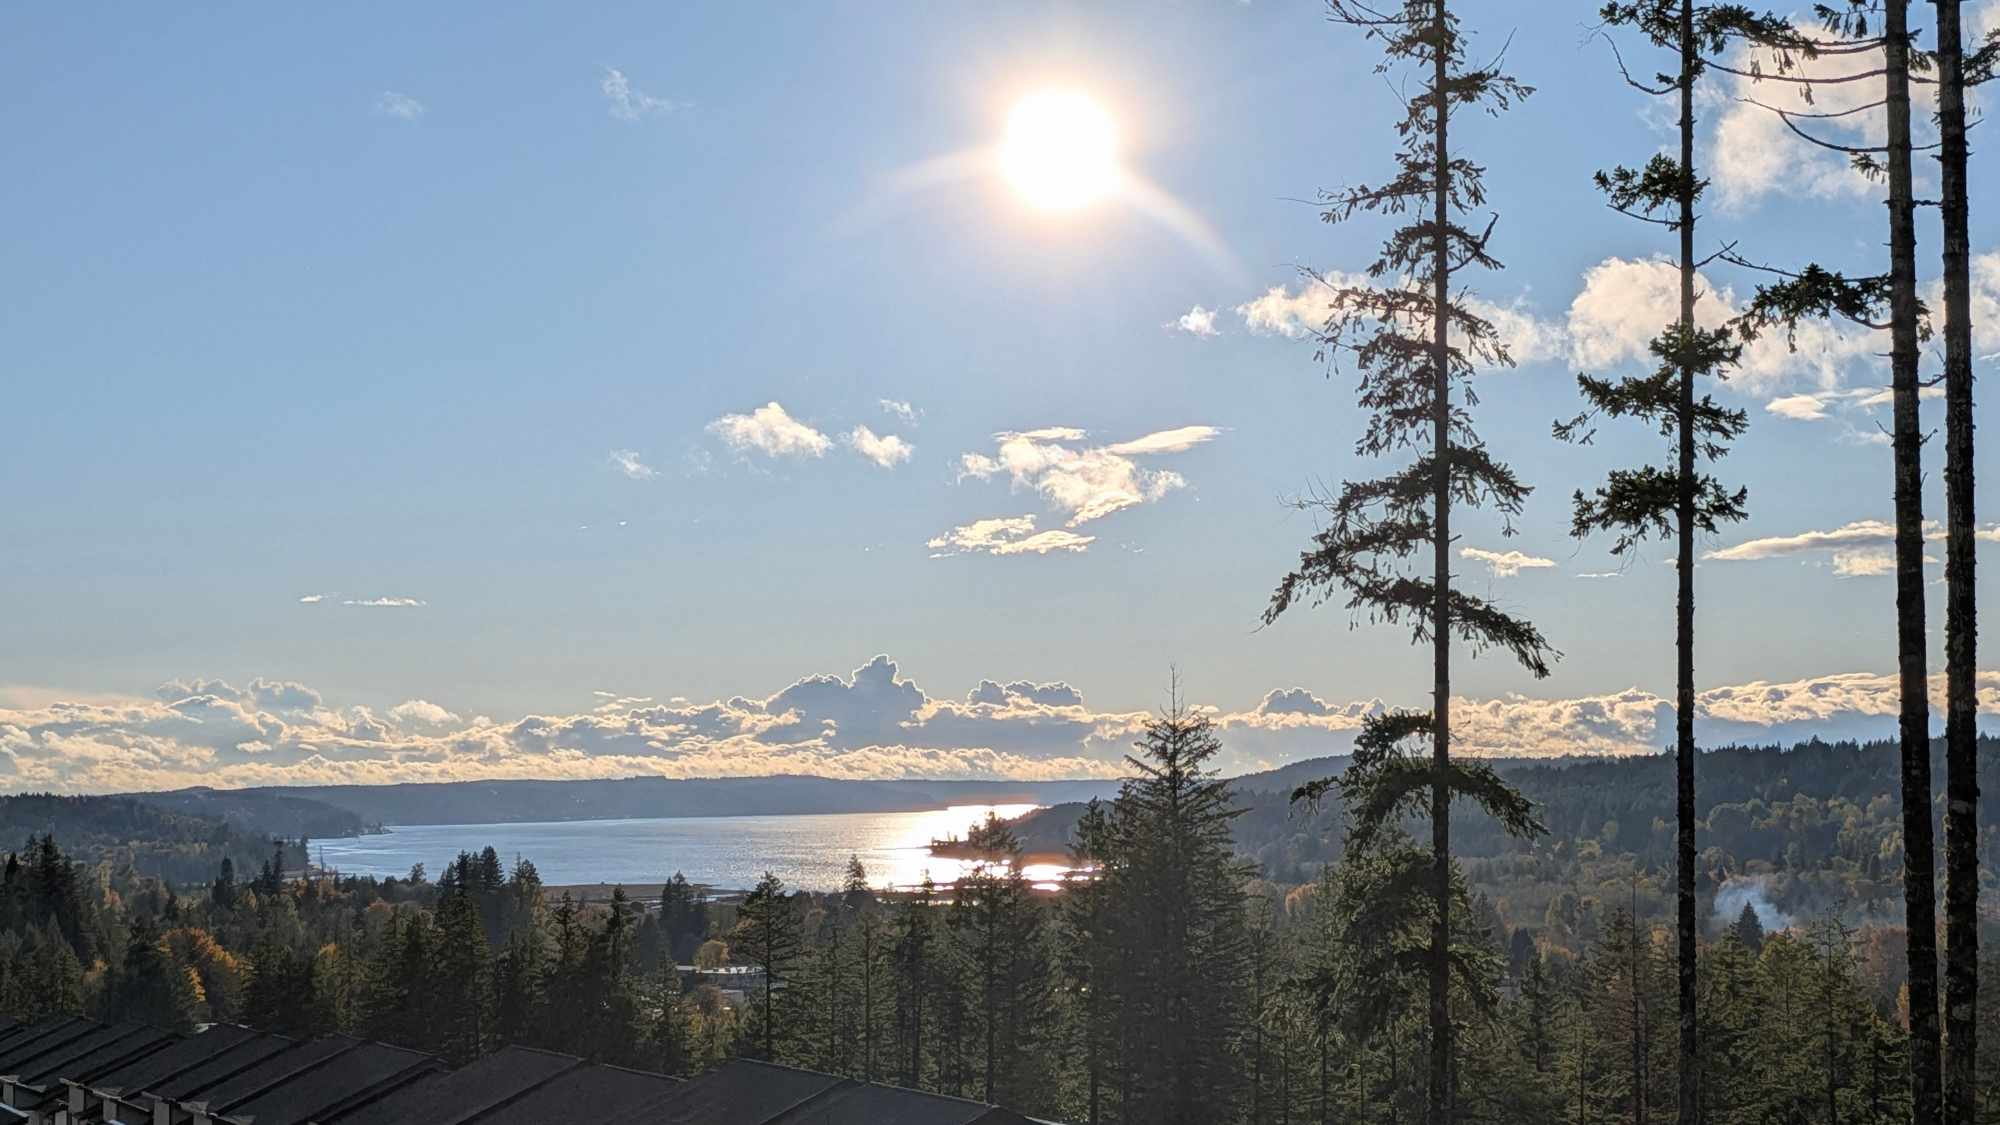
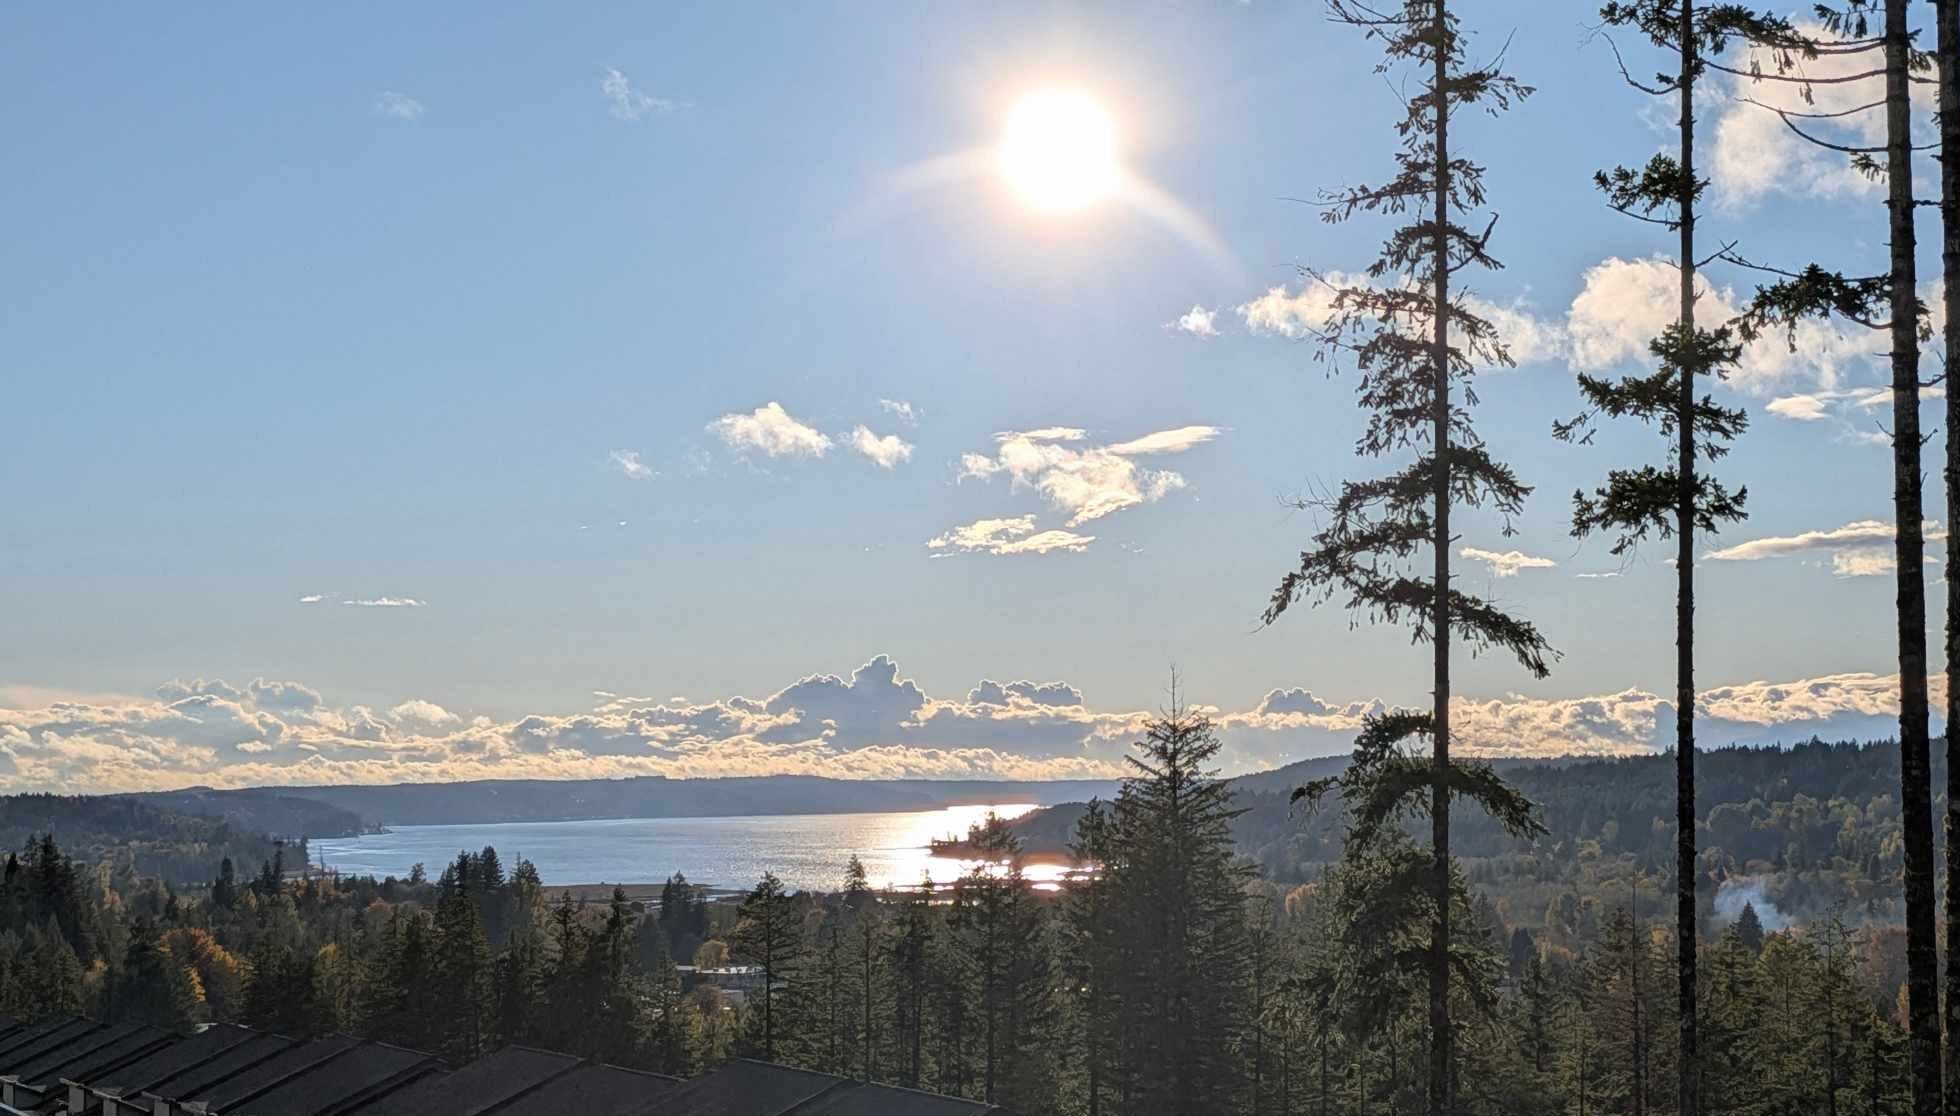
Stop the homepage hero jumping when the theme is toggled
Two independent causes.

The CSS: .dark was not just swapping the photo, it also overrode rotate
(0.65deg -> 0), scale (1.035 -> 1.01) and background-position-y (62% -> 72%).
The rotation change tilted the horizon, which read as the worst of it. A
second dark-only override inside the max-width:900px block did the same on
mobile. Both rules now only swap background-image; geometry is shared.

The photos: the two files had been cropped from their source shots at
different zoom, so the required correction grew with height in frame -
roofs ~6px, horizon ~18px, treetops ~46px. No single offset can fix that,
which is why aligning on the tree trunks was misleading; trunks are vertical
lines and hide vertical error. hood-canal-sunset.jpg is now rescaled
vertically ~1.08 and re-cropped to register against hood-canal-sunny.jpg.
Both files are 1960x1116.

Measured in-browser after the change, treetops and horizon register within
1px. The bottom-left roofs stay ~6px out; pulling them to zero costs the
trees and horizon about 10px, and they sit in the darkest corner under the
overlay, so the trade favours the features the eye tracks.

diff --git a/assets/css/extended/custom.css b/assets/css/extended/custom.css
@@ -172,20 +172,32 @@ button#theme-toggle:hover,
     inset: 0;
 }
 
+/*
+ * Hero geometry is shared by both themes on purpose, and the two photos are
+ * pixel-registered to each other: same viewpoint, and hood-canal-sunset.jpg was
+ * rescaled vertically (~1.08) and re-cropped so its treeline and horizon land on
+ * the same rows as hood-canal-sunny.jpg. The originals were cropped from their
+ * source shots at different zoom levels, so a plain offset does NOT align them;
+ * the required shift grew with height in frame (roofs ~6px, horizon ~18px,
+ * treetops ~46px). Both files are now 1960x1116 and must stay that way.
+ *
+ * If either photo is ever re-cropped or replaced, re-register the pair and keep
+ * both files identical in size. Keep rotate/scale/position identical across
+ * themes here too; per-theme values were the other half of the original jump.
+ * Scale must stay >= ~1.025 to cover the corners exposed by the tilt.
+ */
 .home-hero__image {
+    --home-hero-image-y: 62%;
     --home-hero-image-rotate: 0.65deg;
     --home-hero-image-scale: 1.035;
     z-index: -2;
     background-image: url("/hood-canal-sunny.jpg");
-    background-position: center var(--home-hero-image-y, 62%);
+    background-position: center var(--home-hero-image-y);
     background-size: cover;
     transform: scale(var(--home-hero-image-scale)) rotate(var(--home-hero-image-rotate));
 }
 
 .dark .home-hero__image {
-    --home-hero-image-y: 72%;
-    --home-hero-image-rotate: 0deg;
-    --home-hero-image-scale: 1.01;
     background-image: url("/hood-canal-sunset.jpg");
 }
 
@@ -912,7 +924,9 @@ button#theme-toggle:hover,
         background: linear-gradient(180deg, rgba(12, 24, 22, 0.68), rgba(12, 24, 22, 0.52));
     }
 
-    .dark .home-hero__image {
+    /* Narrow screens crop hard to the sides, so bias down to hold the horizon and
+       treeline in frame. Applies to both themes so the swap stays motionless. */
+    .home-hero__image {
         --home-hero-image-y: 100%;
         background-size: auto 104%;
     }
